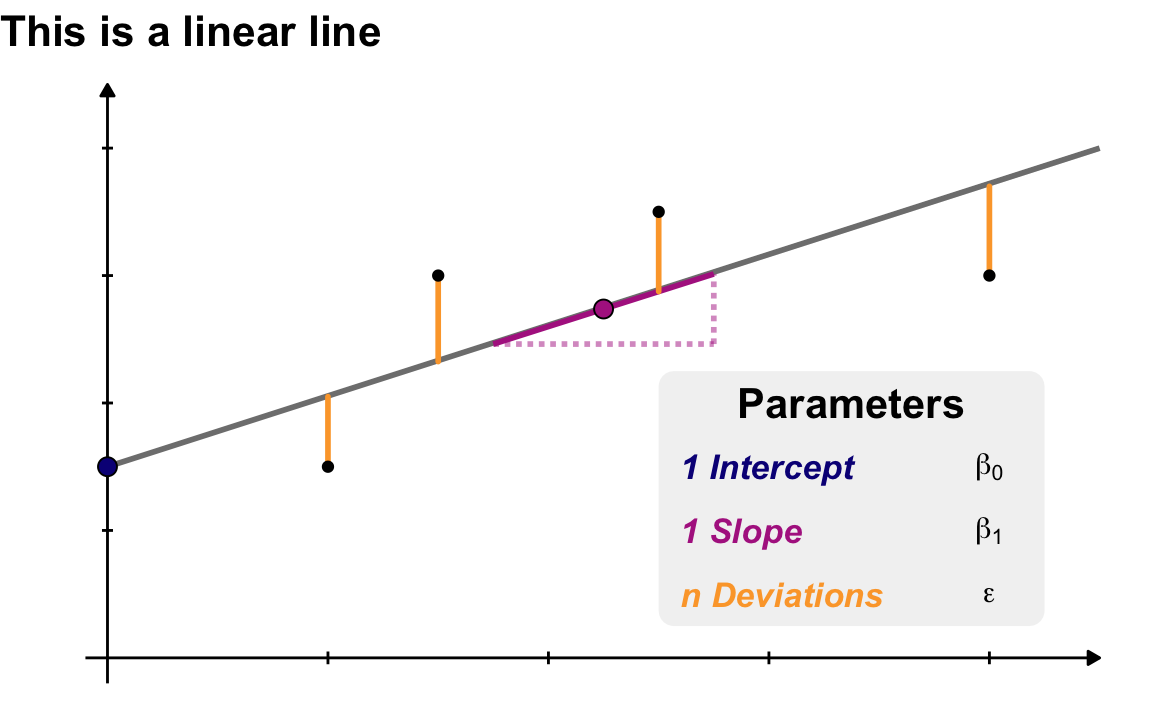
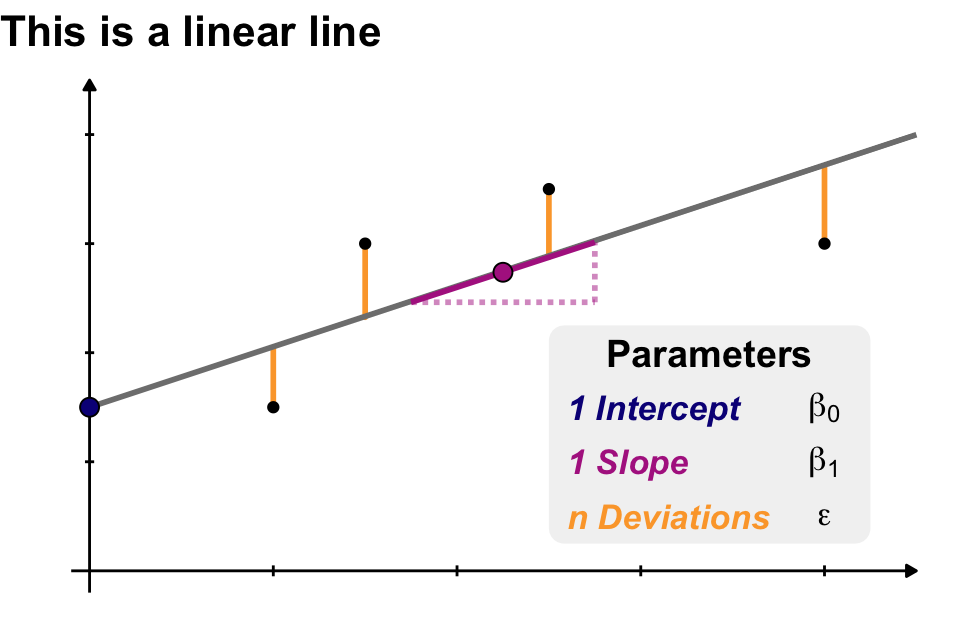
added

diff --git a/template-preface.html b/template-preface.html
@@ -55,7 +55,7 @@ ul.task-list li input[type="checkbox"] {
 </div>
 <section id="template-preface" class="level1">
 <h1>Template Preface</h1>
-<p><em>Last modified on 05. January 2026 at 19:49:20</em></p>
+<p><em>Last modified on 05. January 2026 at 20:00:16</em></p>
 <blockquote class="blockquote">
 <p><em>“What problem have you solved, ever, that was worth solving where you knew all the given information in advance? No problem worth solving is like that. In the real world, you have a surplus of information and you have to filter it, or you don’t have sufficient information and you have to go find some.” — <a href="https://www.ted.com/talks/dan_meyer_math_class_needs_a_makeover?language=en&amp;subtitle=en&amp;trigger=5s">Dan Meyer in Math class needs a makeover</a></em></p>
 </blockquote>
@@ -84,7 +84,7 @@ Figure&nbsp;1: foo
 <div id="fig-euclidiean-line-01" class="quarto-float quarto-figure quarto-figure-center anchored" data-fig-align="center">
 <figure class="quarto-float quarto-float-fig figure">
 <div aria-describedby="fig-euclidiean-line-01-caption-0ceaefa1-69ba-4598-a22c-09a6ac19f8ca">
-<img src="template-preface_files/figure-html/fig-euclidiean-line-01-1.png" class="img-fluid quarto-figure quarto-figure-center figure-img" width="576">
+<img src="template-preface_files/figure-html/fig-euclidiean-line-01-1.png" class="img-fluid quarto-figure quarto-figure-center figure-img" width="480">
 </div>
 <figcaption class="quarto-float-caption-bottom quarto-float-caption quarto-float-fig" id="fig-euclidiean-line-01-caption-0ceaefa1-69ba-4598-a22c-09a6ac19f8ca">
 Figure&nbsp;2: foo
